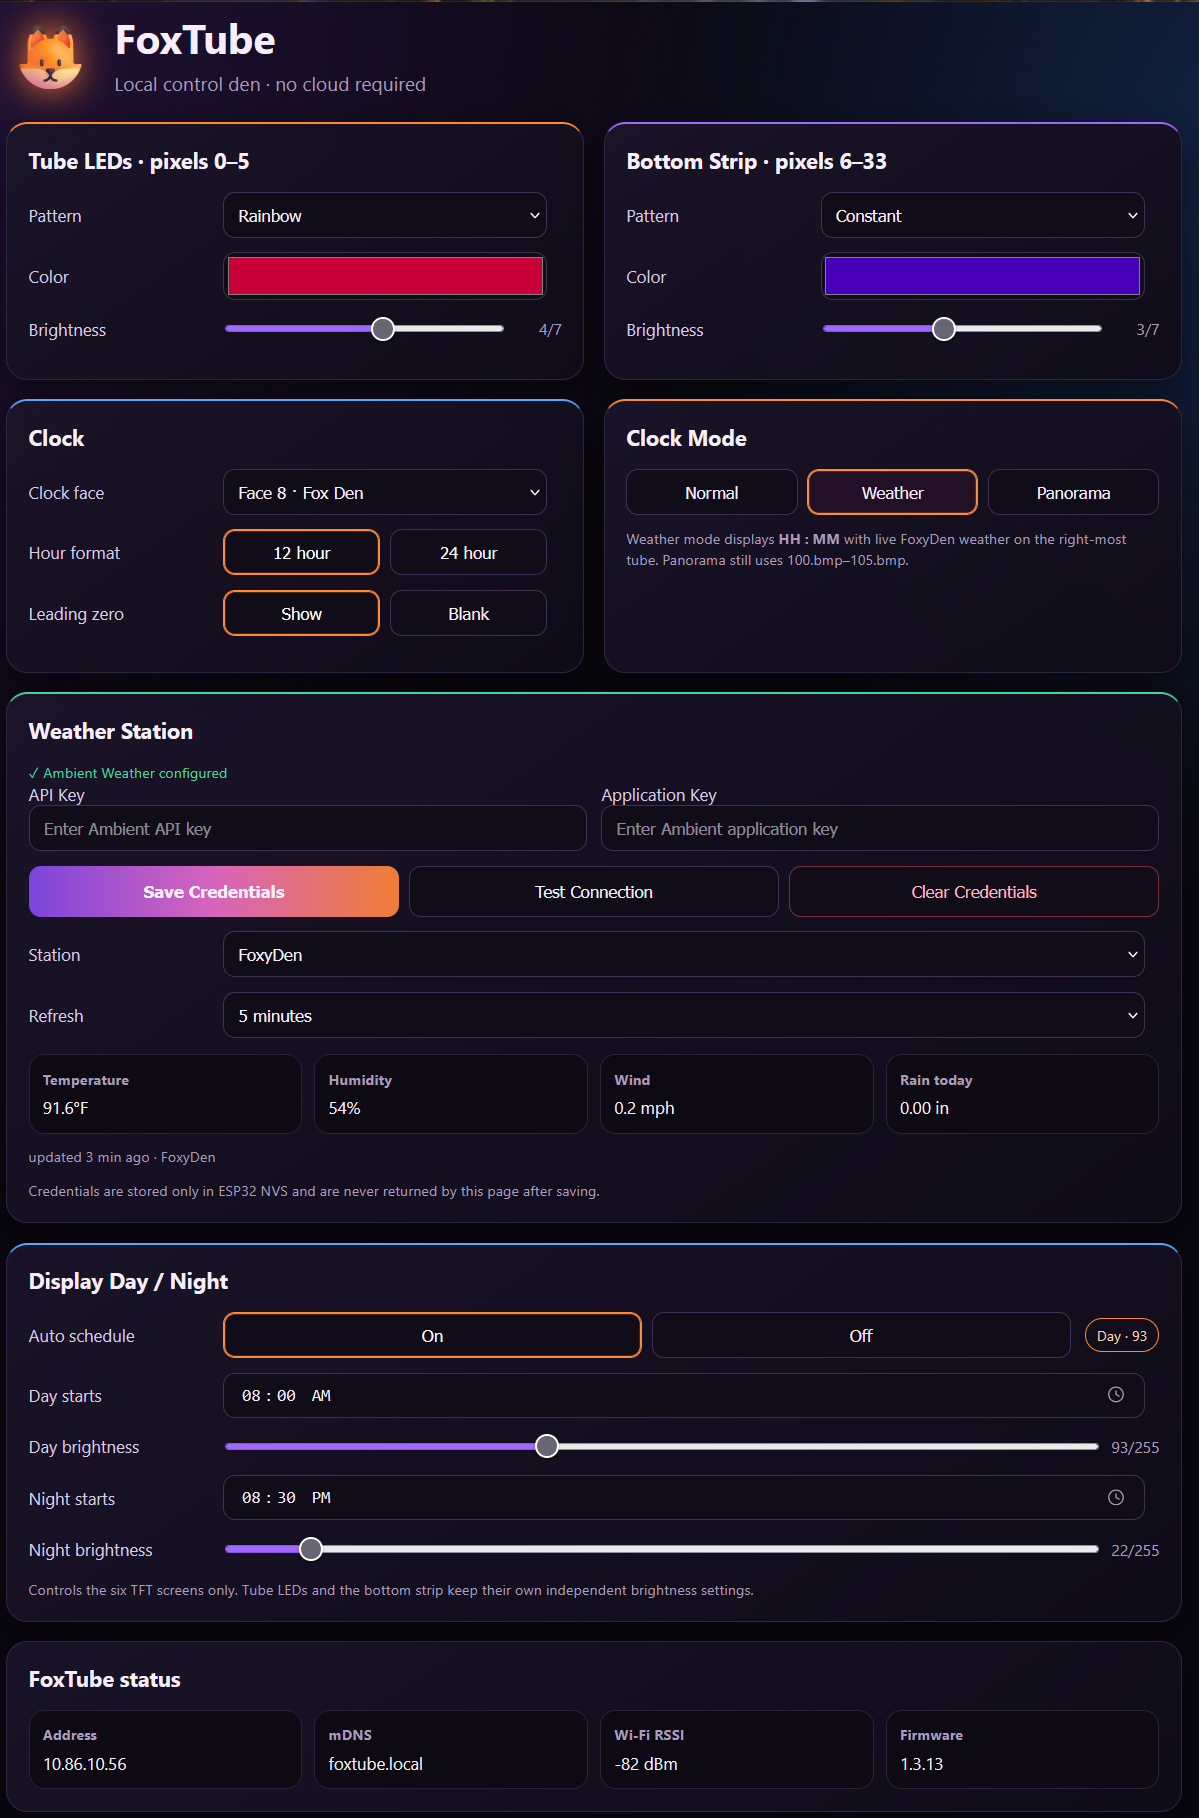
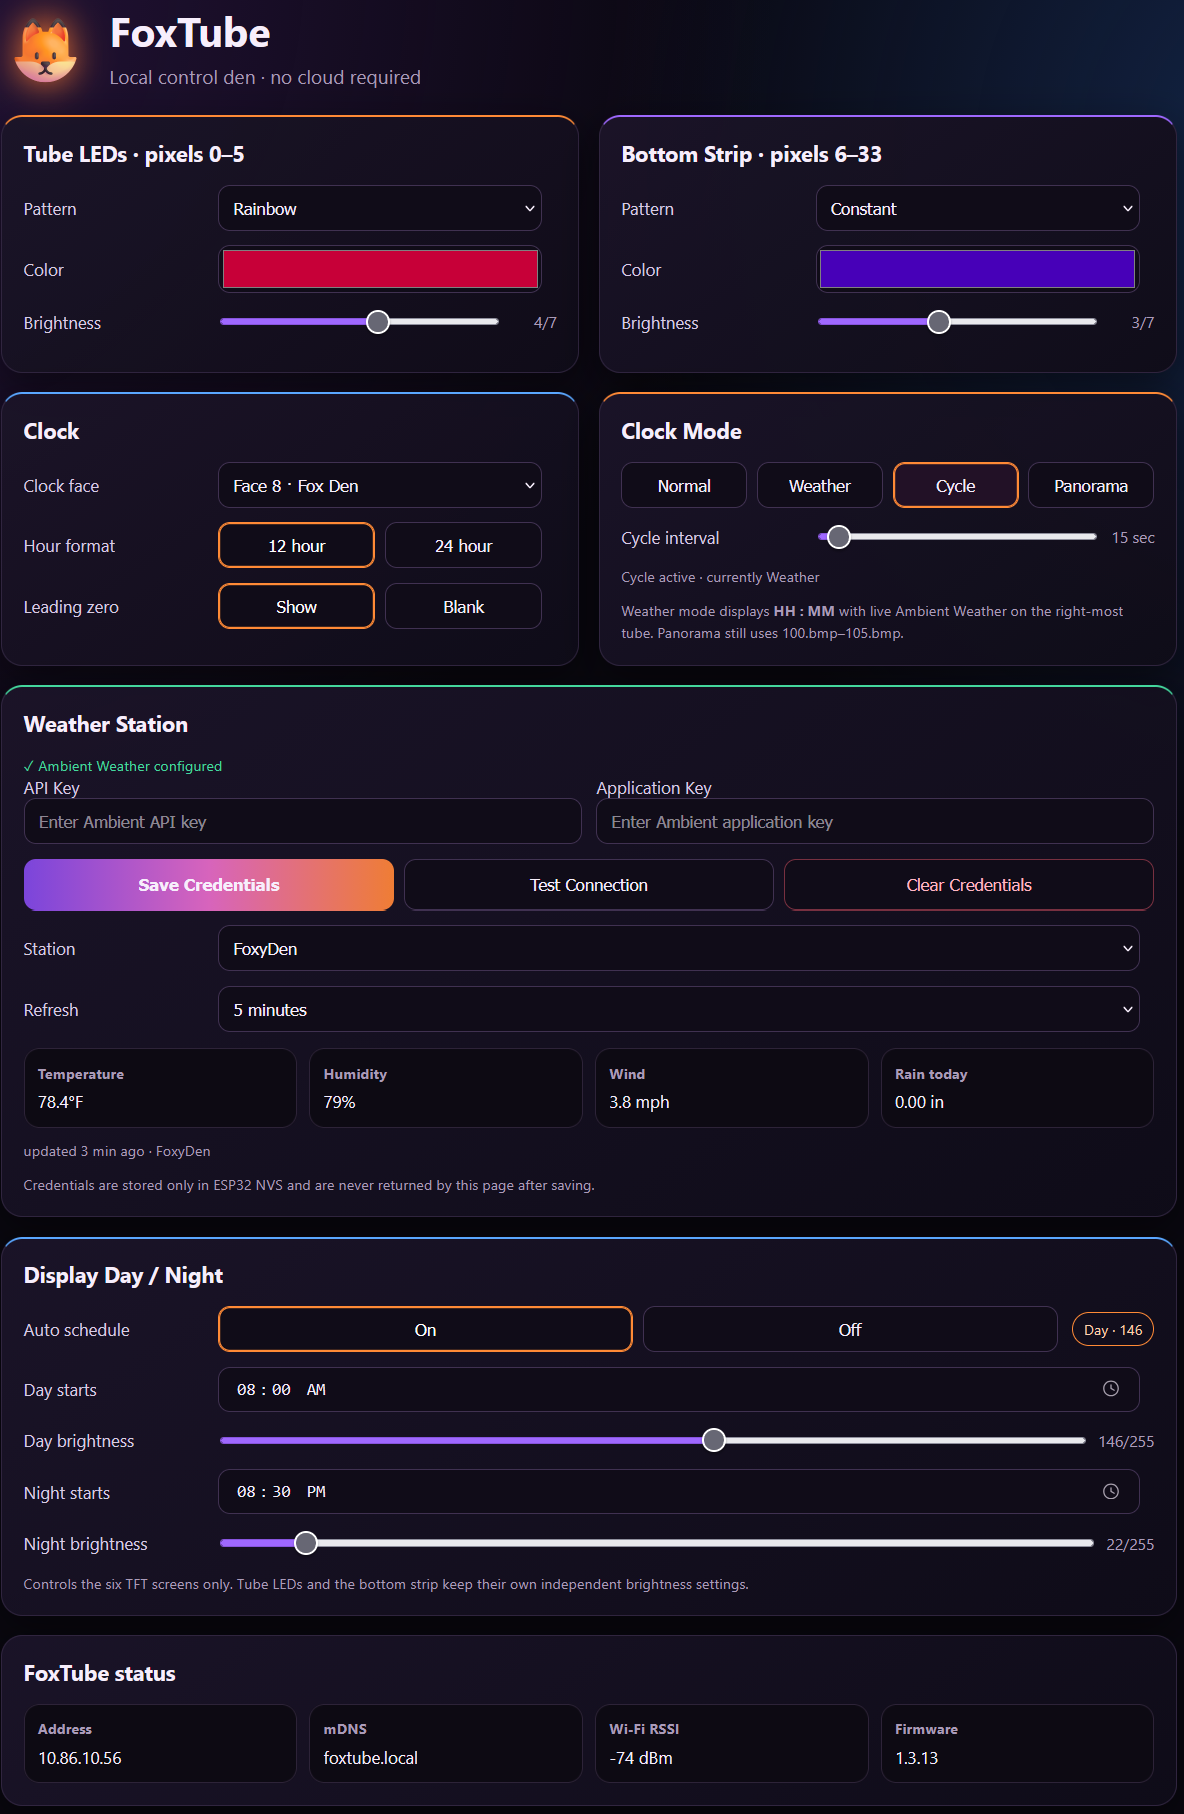
Document Cycle mode and refresh Web UI screenshot

diff --git a/README.md b/README.md
@@ -7,7 +7,8 @@ six-display clocks.
 It keeps the excellent EleksTubeHAX foundation and adds a FoxTube-specific
 ESP32-S3 hardware port, a local responsive Web UI, custom clock artwork,
 panorama mode, independent RGB lighting controls, configurable display
-brightness scheduling, and an Ambient Weather-powered weather clock mode.
+brightness scheduling, an Ambient Weather-powered weather clock mode, and
+automatic Normal/Weather display cycling.
 
 > **Project status:** FoxTube is a hardware-specific development fork. The
 > features documented here are developed and tested on the ESP32-S3 IPSTube
@@ -82,7 +83,8 @@ The Web UI currently provides control for:
 - leading zero behavior
 - tube RGB pattern, color, and brightness
 - bottom-strip RGB pattern, color, and brightness
-- Normal / Weather / Panorama display modes
+- Normal / Weather / Cycle / Panorama display modes
+- configurable Cycle interval
 - day/night TFT brightness scheduling
 - Ambient Weather station configuration
 - weather refresh interval
@@ -111,6 +113,23 @@ The matching Fox Den-style colon used by Weather Clock mode is:
 
 ---
 
+### 🔄 Cycle mode
+
+Cycle mode automatically alternates between the normal clock display and
+Weather Clock mode.
+
+The switching interval is configurable from **5 to 300 seconds**, with a
+default of **30 seconds**, and can be changed from either the Web UI or the
+one-button menu.
+
+Cycle timing is independent of the Ambient Weather refresh interval. Switching
+to the Weather view uses the most recently cached station data and does not
+trigger a new API request on every display change.
+
+The selected mode and Cycle interval are stored persistently in ESP32 NVS.
+
+---
+
 ### 🖼 Panorama mode
 
 The six 135×240 displays can be used as one effective **810×240** panoramic
@@ -125,7 +144,7 @@ Panorama assets use:
 A long press of the rear button while the clock is idle toggles Panorama mode.
 
 Panorama acts as an overlay, so leaving Panorama returns to the underlying
-Normal or Weather mode that was selected previously.
+Normal, Weather, or Cycle mode that was selected previously.
 
 ---
 
@@ -192,6 +211,9 @@ If an API request fails, FoxTube keeps the last successful reading rather than
 blanking the display.
 
 The default refresh interval is **5 minutes** and can be changed from the Web UI.
+
+Cycle mode does not alter this refresh interval. It only changes which cached
+display view is currently shown.
 
 ### Ambient Weather requirement
 
@@ -387,7 +409,7 @@ Current FoxTube namespaces include:
 ```text
 foxstrip      bottom RGB strip settings
 foxdisplay    day/night TFT brightness schedule
-foxweather    Ambient Weather configuration and credentials
+foxweather    Ambient Weather, Clock Mode, and Cycle configuration
 ```
 
 This keeps FoxTube-specific persistence isolated from the upstream configuration
@@ -411,6 +433,7 @@ tested IPSTube S3 hardware, including:
 - configurable day/night display brightness
 - Ambient Weather station discovery
 - Weather Clock mode
+- automatic Normal/Weather Cycle mode with configurable interval
 
 Contributions and testing on similar ESP32-S3 IPSTube hardware are welcome.
 
